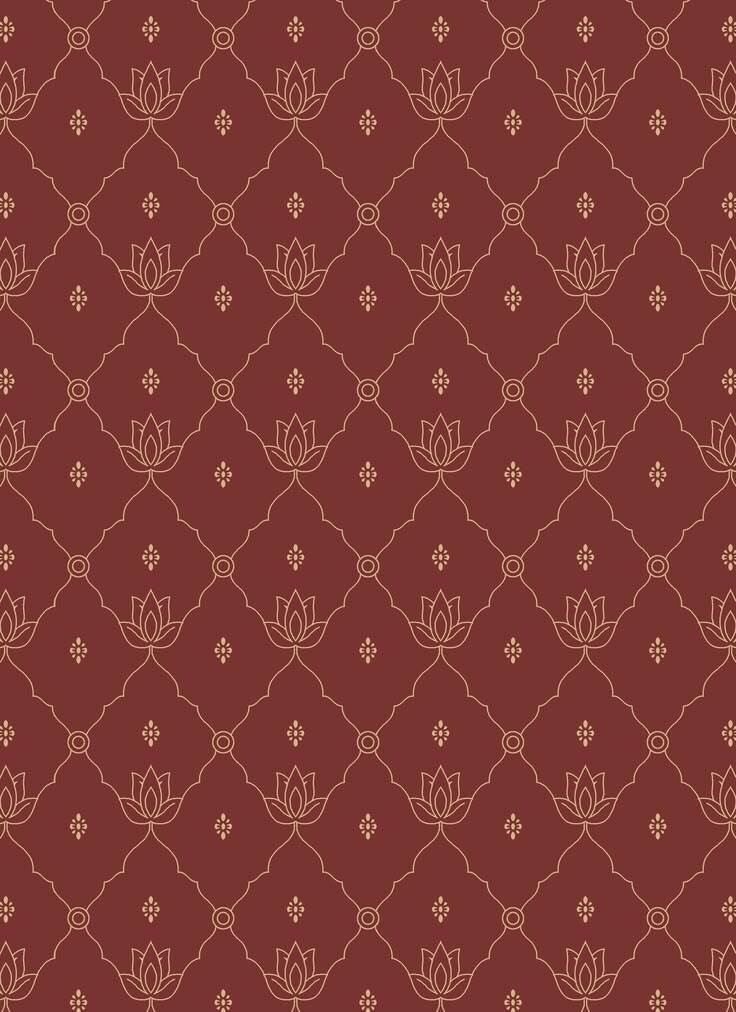
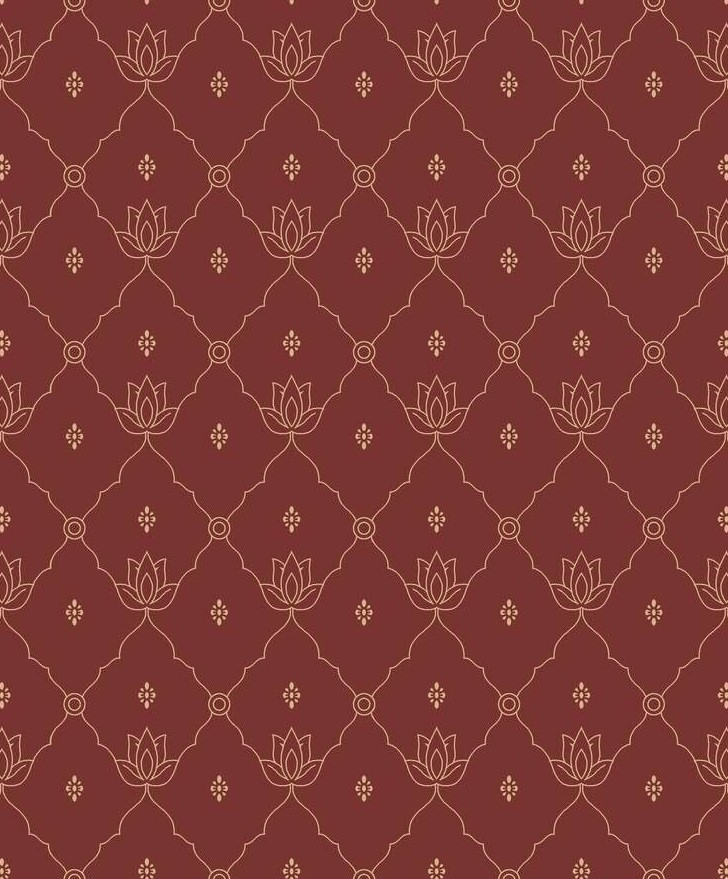
minor changes

diff --git a/style.css b/style.css
@@ -3,8 +3,13 @@ header{
     text-align: center;
 }
 body{
-    margin: 0;
-    background-image: url('sources/background.jpg');
-    background-position: center;
-    
+    background-image: url('sources/background2.jpg');
+    background-position: right;
+    }
+img[id="1"]{
+    border-radius: 100%;
+    height: 200px;
+    display: block;
+    margin-left: auto;
+    margin-right: auto;
 }

diff --git a/index.html b/index.html
@@ -8,9 +8,8 @@
         <h1><u>Harshit Tripathi</u></h1>
     </header>
     <body> 
-    <div align="center">
-        <img src="sources/img.png" alt="MY LOGO" style="border-radius: 100%; height: 200px;">
-    </div>
+        <img src="sources/img.png" alt="MY LOGO" id="1">
+    
 
     </body>
 </html>
